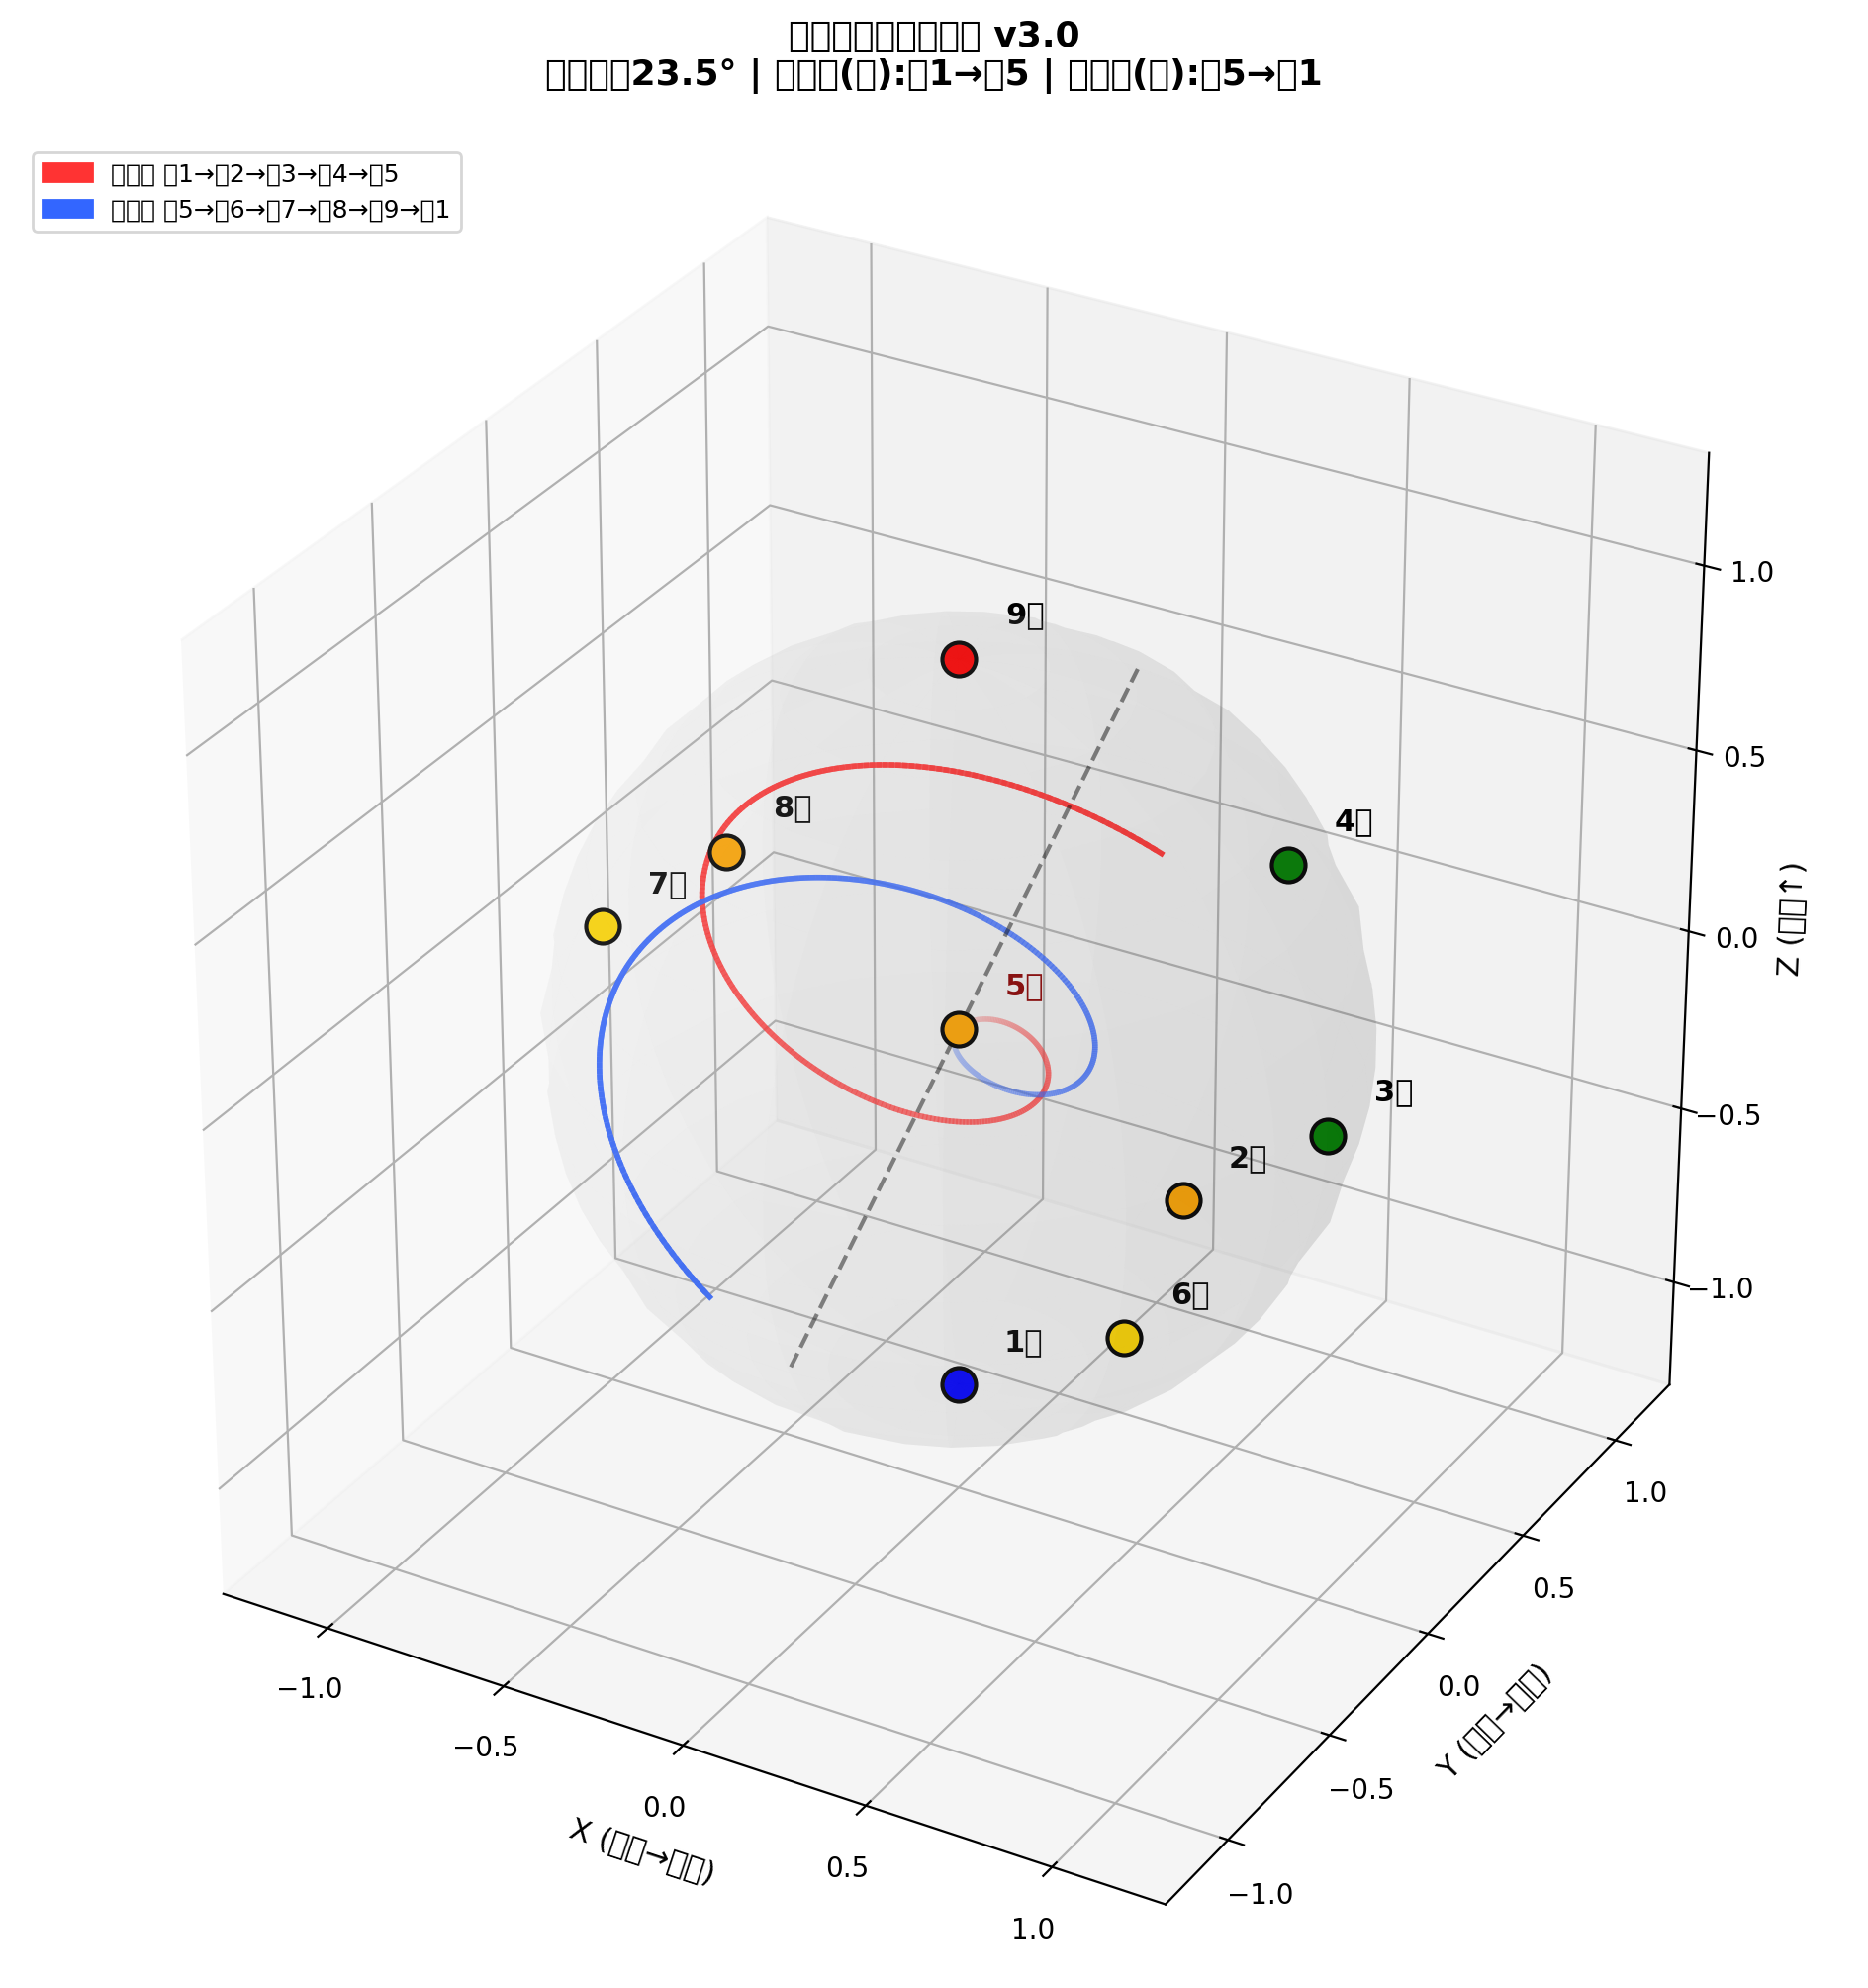
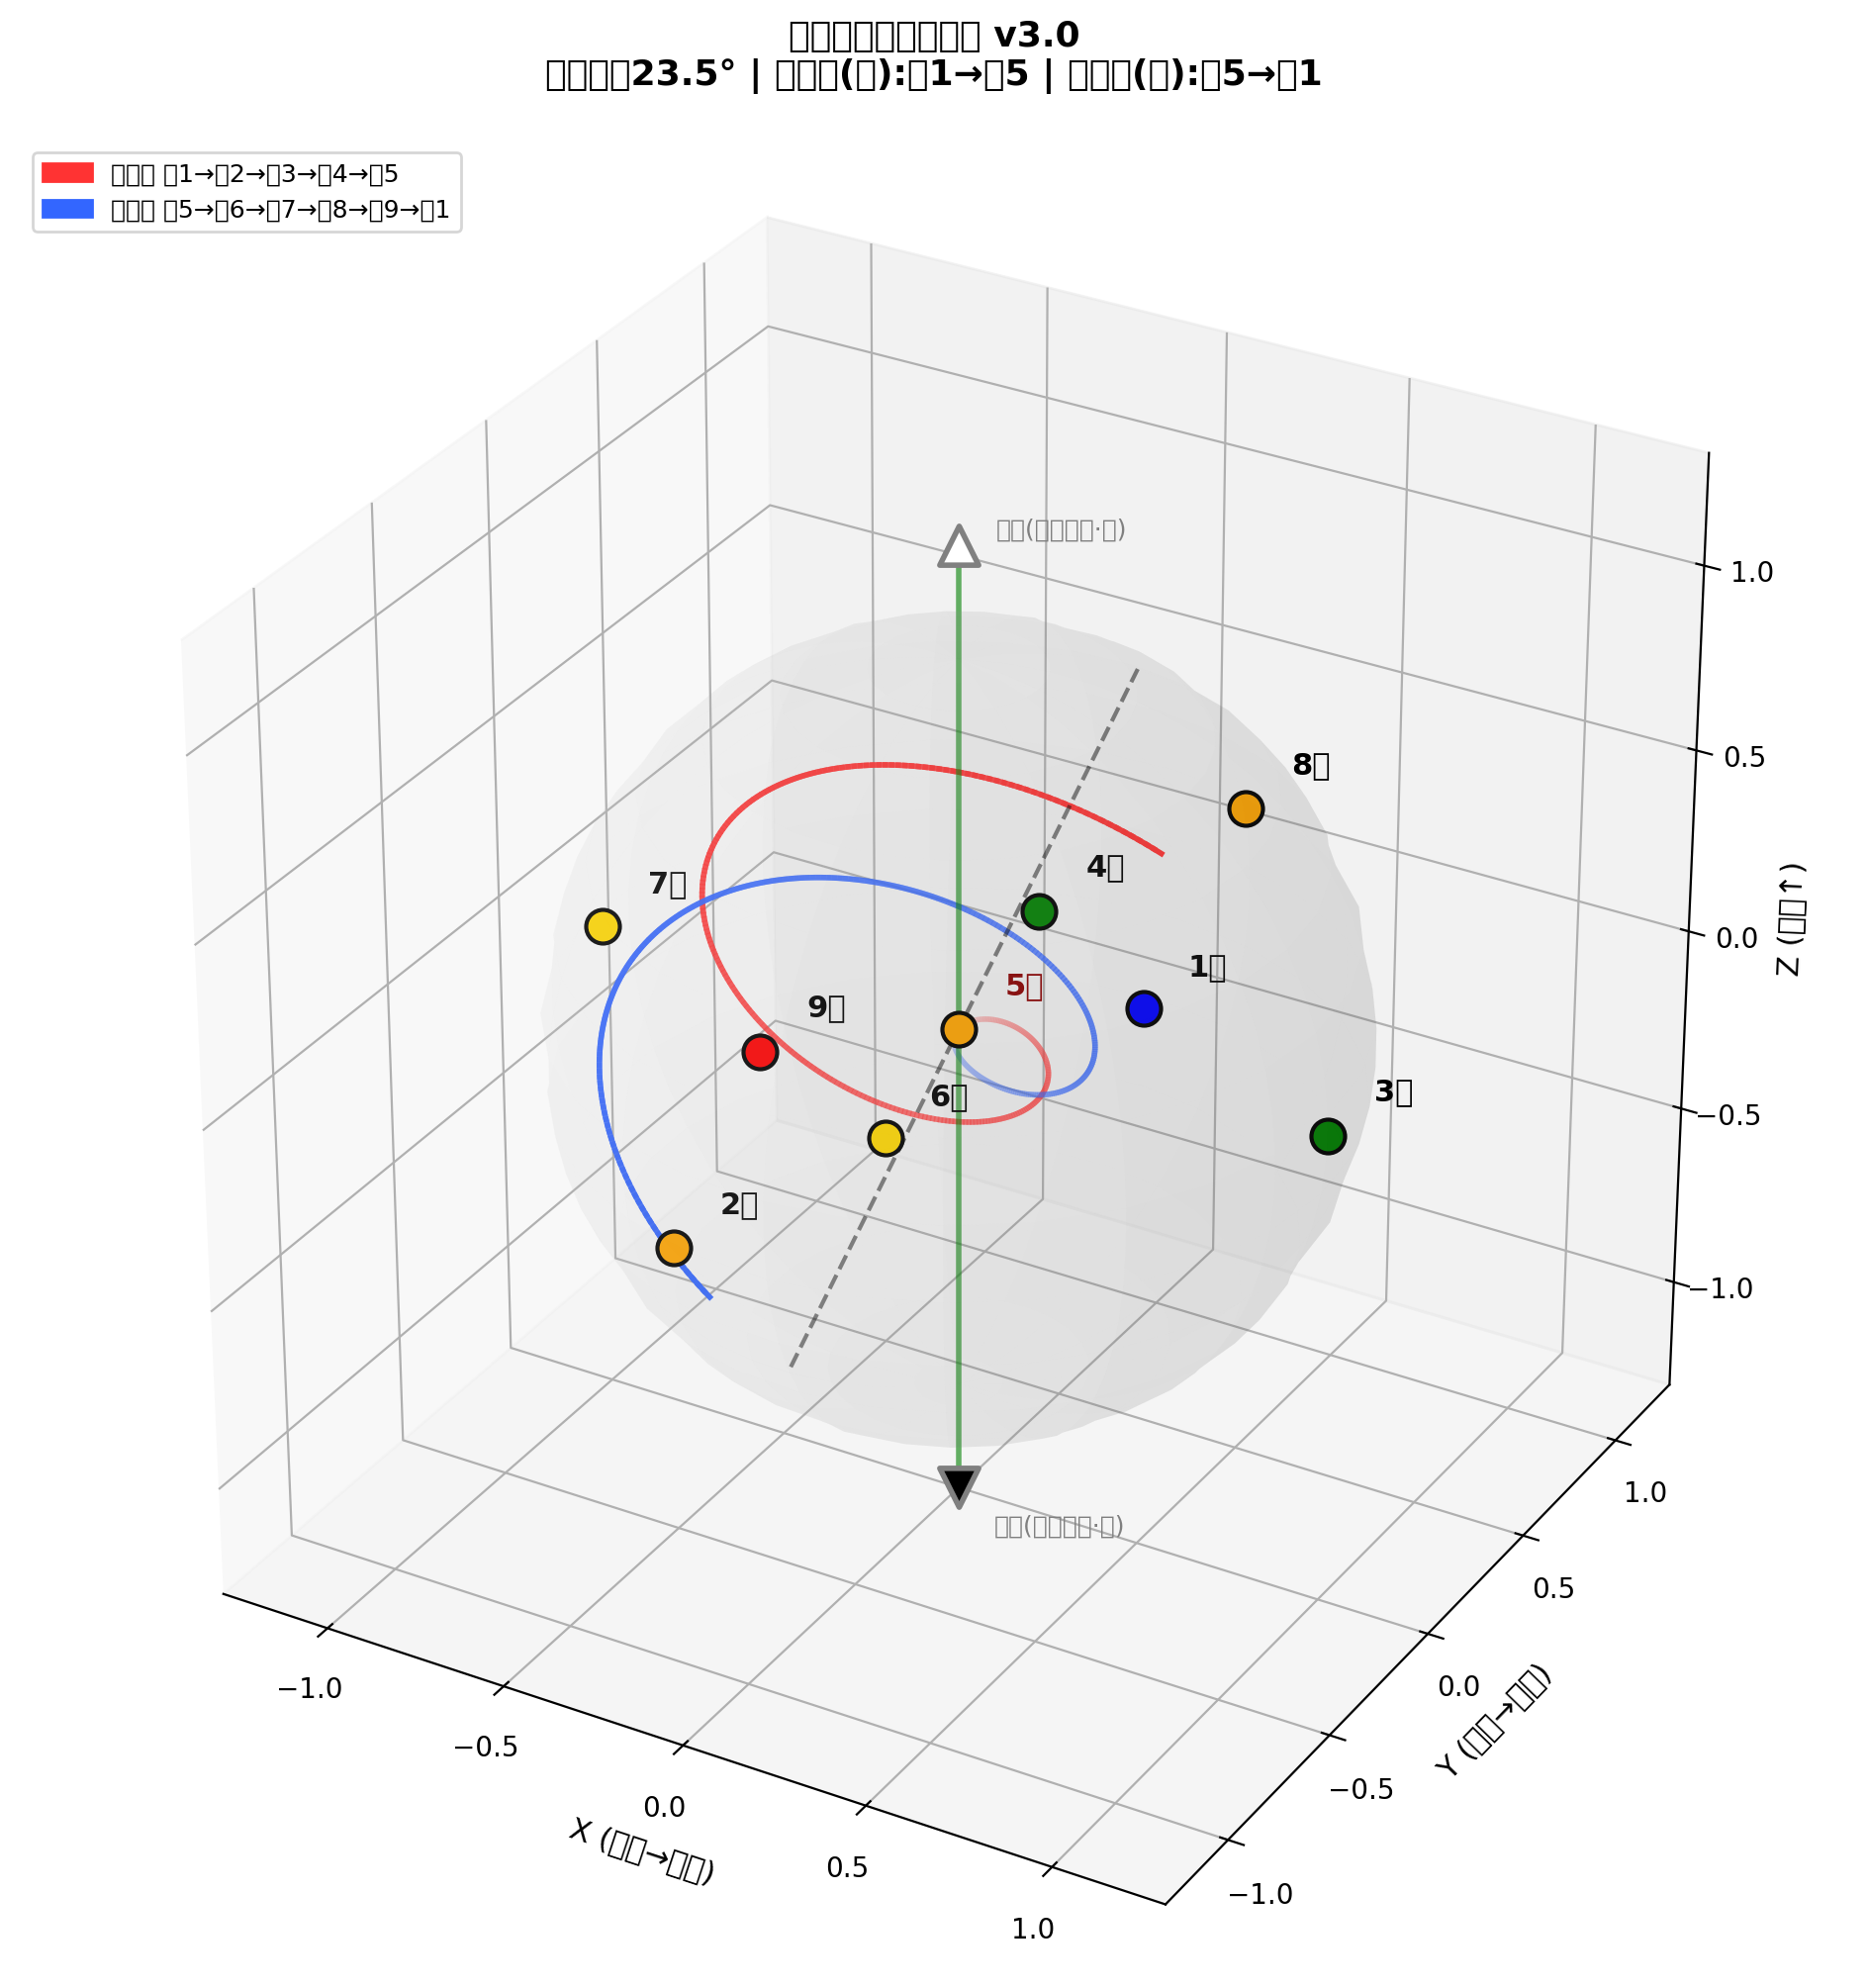
修正v3.0几何：地理轴与八卦中轴分离
核心修正（梓涵指出）：
1. 地理轴(南北极)=土轴/明度轴，不等于八卦中轴(巽4→乾6)
2. 离9(火/夏至)在北回归线(球面上)，不在北极
3. 坎1(水/冬至)在南回归线(球面上)，不在南极

修改文件：
- 后天八卦螺旋球体模型_v3.0.md：映射表/拓扑图/螺旋描述/代码架构
- v3.0_数学形式化.md：坐标系定义/九宫坐标/参数方程
- v3.0_3d_visualization.py：九宫位置/增加地理轴可视化

diff --git a/v3.0_3d_visualization.py b/v3.0_3d_visualization.py
@@ -30,17 +30,19 @@ class HoutianBaguaSpiralViz:
         # 构建正交基
         self._build_basis()
         
-        # 九宫定义（简化球坐标）
+        # 九宫定义（修正：地理轴Z=南北极=土轴，离9/坎1在回归线不在极点）
+        # 坐标系：X=东，Y=北，Z=北极（地理轴/土轴）
+        # 北极(0,0,1)=土之极阳（白），南极(0,0,-1)=土之极阴（黑）
         self.bagua = {
-            1: {"name": "坎", "wuxing": "水", "pos": self._spherical_to_cartesian(1.0, np.pi, 0)},
-            2: {"name": "坤", "wuxing": "土", "pos": self._spherical_to_cartesian(0.8, 3*np.pi/4, np.pi/4)},
-            3: {"name": "震", "wuxing": "木", "pos": self._spherical_to_cartesian(1.0, np.pi/2, 0)},
-            4: {"name": "巽", "wuxing": "木", "pos": self._spherical_to_cartesian(0.9, np.pi/3, np.pi/6)},
-            5: {"name": "中", "wuxing": "土", "pos": np.array([0.0, 0.0, 0.0])},
-            6: {"name": "乾", "wuxing": "金", "pos": self._spherical_to_cartesian(0.9, 2*np.pi/3, -np.pi/6)},
-            7: {"name": "兑", "wuxing": "金", "pos": self._spherical_to_cartesian(1.0, np.pi/2, np.pi)},
-            8: {"name": "艮", "wuxing": "土", "pos": self._spherical_to_cartesian(0.8, np.pi/4, -3*np.pi/4)},
-            9: {"name": "离", "wuxing": "火", "pos": self._spherical_to_cartesian(1.0, 0, 0)},
+            1: {"name": "坎", "wuxing": "水", "pos": np.array([0.0, 0.917, -0.399])},    # 南回归线（冬至·水）
+            2: {"name": "坤", "wuxing": "土", "pos": np.array([-0.5, -0.5, -0.5])},      # 西南偏下
+            3: {"name": "震", "wuxing": "木", "pos": np.array([1.0, 0.0, 0.0])},          # 赤道东（春分·木）
+            4: {"name": "巽", "wuxing": "木", "pos": np.array([0.5, -0.5, 0.707])},      # 八卦中轴上端
+            5: {"name": "中", "wuxing": "土", "pos": np.array([0.0, 0.0, 0.0])},          # 球心
+            6: {"name": "乾", "wuxing": "金", "pos": np.array([-0.5, 0.5, -0.707])},     # 八卦中轴下端
+            7: {"name": "兑", "wuxing": "金", "pos": np.array([-1.0, 0.0, 0.0])},         # 赤道西（秋分·金）
+            8: {"name": "艮", "wuxing": "土", "pos": np.array([0.5, 0.5, 0.5])},          # 东北偏上
+            9: {"name": "离", "wuxing": "火", "pos": np.array([0.0, -0.917, 0.399])},    # 北回归线（夏至·火）
         }
     
     def _build_basis(self):
@@ -138,13 +140,21 @@ class HoutianBaguaSpiralViz:
         ax.plot_surface(x_s, y_s, z_s, alpha=0.08, color='lightgray', 
                        rstride=2, cstride=2, linewidth=0)
         
-        # 绘制中轴
+        # 绘制八卦中轴（倾斜）
         axis_start = -1.2 * self.axis_dir
         axis_end = 1.2 * self.axis_dir
         ax.plot3D([axis_start[0], axis_end[0]], 
                  [axis_start[1], axis_end[1]], 
                  [axis_start[2], axis_end[2]], 
-                 'k--', linewidth=1.5, alpha=0.5, label='中轴(巽4→中5→乾6)')
+                 'k--', linewidth=1.5, alpha=0.5, label='八卦中轴(巽4→中5→乾6)')
+        
+        # 绘制地理轴（土轴/南北极，固定竖直Z轴）
+        ax.plot3D([0, 0], [0, 0], [-1.3, 1.3], 
+                 'g-', linewidth=2, alpha=0.6, label='地理轴(南极←土→北极)')
+        ax.scatter([0], [0], [1.3], c='white', s=200, marker='^', edgecolors='gray', linewidths=2, zorder=6)
+        ax.scatter([0], [0], [-1.3], c='black', s=200, marker='v', edgecolors='gray', linewidths=2, zorder=6)
+        ax.text(0.1, 0, 1.35, '北极(土之极阳·白)', fontsize=9, color='gray')
+        ax.text(0.1, 0, -1.4, '南极(土之极阴·黑)', fontsize=9, color='gray')
         
         # 标记九宫位置
         colors_wuxing = {

diff --git a/后天八卦螺旋球体模型_v3.0.md b/后天八卦螺旋球体模型_v3.0.md
@@ -47,38 +47,44 @@ v2.0建立了"土轴四行"的静态球面模型：
 
 | 数字 | 卦 | 方位 | 五行 | 季节 | 节气 | 三维球体定位 | 角色 |
 |------|-----|------|------|------|------|-------------|------|
-| 1 | 坎 | 北 | 水 | 冬 | 冬至 | **南极区域**（阴之极） | 阴螺旋起点 |
+| 1 | 坎 | 北 | 水 | 冬 | 冬至 | **南回归线**（阴之极·水） | 阴螺旋起点 |
 | 2 | 坤 | 西南 | 土 | 夏秋之交 | — | 南半球偏西（黄道过渡带） | 阴螺旋过渡 |
 | 3 | 震 | 东 | 木 | 春 | 春分 | **赤道东**（黄道主节点） | 阳螺旋主节点 |
-| 4 | 巽 | 东南 | 木/风 | 春夏之交 | — | 北半球偏东（中轴上端） | **中轴上端** |
+| 4 | 巽 | 东南 | 木/风 | 春夏之交 | — | **中轴上端**（八卦中轴与球面交点） | **八卦中轴上端** |
 | 5 | 中 | 中 | 土 | 四季 | — | **球心**（原点） | **螺旋交汇点** |
-| 6 | 乾 | 西北 | 金 | 秋冬之交 | — | 北半球偏西（中轴下端） | **中轴下端** |
+| 6 | 乾 | 西北 | 金 | 秋冬之交 | — | **中轴下端**（八卦中轴与球面交点） | **八卦中轴下端** |
 | 7 | 兑 | 西 | 金 | 秋 | 秋分 | **赤道西**（黄道主节点） | 阴螺旋主节点 |
-| 8 | 艮 | 东北 | 土 | 冬春之交 | — | 南半球偏东（黄道过渡带） | 阳螺旋过渡 |
-| 9 | 离 | 南 | 火 | 夏 | 夏至 | **北极区域**（阳之极） | 阳螺旋终点 |
+| 8 | 艮 | 东北 | 土 | 冬春之交 | — | 北半球偏东（黄道过渡带） | 阳螺旋过渡 |
+| 9 | 离 | 南 | 火 | 夏 | 夏至 | **北回归线**（阳之极·火） | 阴螺旋终点 |
 
 ### 2.2 关键拓扑关系
 
 ```
-三维球体上的后天八卦拓扑（侧视图，中轴倾斜）：
+三维球体上的后天八卦拓扑（侧视图）：
 
-                     离9（北极·阳之极·火）
+        北极（土之极阳·最白）←——地理轴（土轴/明度轴）——→ 南极（土之极阴·最黑）
                       ↑
                      ╱ ╲
-               巽4 ── 中5 ── 乾6   ← 倾斜中轴（巽4→中5→乾6）
+               巽4 ── 中5 ── 乾6   ← 八卦中轴（倾斜·巽4→中5→乾6）
               （上）  （心）  （下）
                      ╲ ╱
                       ↓
-                     坎1（南极·阴之极·水）
+        北回归线·离9（夏至·火）        南回归线·坎1（冬至·水）
 
-黄道面（垂直于纸面，与页面成23.5°夹角）：
+关键区分：
+- 地理轴（南北极）= 土轴/明度轴 = 固定竖直
+- 八卦中轴（4-5-6）= 倾斜轴 = 双螺旋交汇轴
+- 离9（火）在北回归线 = 球面上，不在北极！
+- 坎1（水）在南回归线 = 球面上，不在南极！
+
+黄道面（垂直于纸面）：
 - 震3（东·春分·木）—— 从纸面伸出
 - 兑7（西·秋分·金）—— 向纸面内陷入
-- 离9（南·夏至·火）—— 在纸面上方
-- 坎1（北·冬至·水）—— 在纸面下方
+- 离9（南·夏至·火）—— 在纸面上方（北回归线）
+- 坎1（北·冬至·水）—— 在纸面下方（南回归线）
 
-注意：巽4不在黄道面上，而在中轴上端（偏离黄道面）
-      乾6不在黄道面上，而在中轴下端（偏离黄道面）
+注意：巽4和乾6在八卦中轴上（偏离黄道面）
+      离9和坎1在黄道面上（北/南回归线）
 ```
 
 ### 2.3 中轴的定义
@@ -111,30 +117,30 @@ v2.0建立了"土轴四行"的静态球面模型：
 
 **阳螺旋（上升链）**：1 → 2 → 3 → 4 → 5
 ```
-坎1（南极/水/冬至）
+坎1（南回归线/水/冬至）—— 球面上，阴之极
   ↓ 沿球面螺旋上升
-坤2（西南/土/过渡）
+坤2（西南/土/过渡）—— 冬春之交的土平台
   ↓ 继续上升
-震3（赤道东/木/春分）
-  ↓ 向中轴靠拢
-巽4（中轴上端/木风）
+震3（赤道东/木/春分）—— 阳气开始主导
+  ↓ 向八卦中轴靠拢
+巽4（中轴上端/木风）—— 阳气到达中轴入口
   ↓ 汇聚到中心
-中5（球心/土）
+中5（球心/土）—— 阴阳交汇枢纽
 ```
 
 **阴螺旋（下降链）**：5 → 6 → 7 → 8 → 9 → 1
 ```
-中5（球心/土）
-  ↓ 从中发散
-乾6（中轴下端/金）
+中5（球心/土）—— 阴阳交汇枢纽
+  ↓ 从八卦中轴发散
+乾6（中轴下端/金）—— 阴气从中轴出口
   ↓ 向赤道下降
-兑7（赤道西/金/秋分）
+兑7（赤道西/金/秋分）—— 阴气开始主导
   ↓ 继续下降
-艮8（东北/土/过渡）
-  ↓ 到达极点
-离9（北极/火/夏至）
+艮8（东北/土/过渡）—— 夏秋之交的土平台
+  ↓ 到达火位
+离9（北回归线/火/夏至）—— 球面上，阳之极
   ↓ 完成循环
-坎1（南极/水/冬至）
+坎1（南回归线/水/冬至）—— 回到起点
 ```
 
 ### 3.2 双螺旋的几何形态
@@ -142,9 +148,9 @@ v2.0建立了"土轴四行"的静态球面模型：
 两条螺旋线在球体表面缠绕，在中5（球心）交汇：
 
 ```
-俯视图（沿中轴方向观察）：
+俯视图（沿八卦中轴方向观察）：
 
-              离9（北极）
+        北极（土之极阳·白）
                 ↑
                ╱ ╲
         巽4 ──   ── 乾6
@@ -156,7 +162,10 @@ v2.0建立了"土轴四行"的静态球面模型：
         坤2 ──   ── 艮8
                ╲ ╱
                 ↓
-              坎1（南极）
+        南极（土之极阴·黑）
+
+注意：离9（北回归线·火）和坎1（南回归线·水）不在此视图中心
+      它们位于黄道面上，在此投影中分布在震3-兑7轴的延长线上
 ```
 
 **关键发现**：
@@ -223,14 +232,14 @@ r(φ') = R·(φ'/(2π))             # 从球心(r=0)向球面(r=R)发散
 双螺旋不是静态的——它在**旋转**：
 
 - **阳螺旋旋转**：代表阳气从冬至(1)向夏至(9)增长
-  - 冬至时：阳螺旋在坎1（南极），最短/最弱
-  - 春分时：阳螺旋到达震3（赤道东），与阴螺旋等长
-  - 夏至时：阳螺旋到达离9（北极），最长/最强
+  - 冬至时：阳螺旋在坎1（南回归线/水），最短/最弱
+  - 春分时：阳螺旋到达震3（赤道东/木），与阴螺旋等长
+  - 夏至时：阳螺旋到达离9（北回归线/火），最长/最强
 
 - **阴螺旋旋转**：代表阴气从夏至(9)向冬至(1)增长
-  - 夏至时：阴螺旋在离9（北极），最短/最弱
-  - 秋分时：阴螺旋到达兑7（赤道西），与阳螺旋等长
-  - 冬至时：阴螺旋到达坎1（南极），最长/最强
+  - 夏至时：阴螺旋在离9（北回归线/火），最短/最弱
+  - 秋分时：阴螺旋到达兑7（赤道西/金），与阳螺旋等长
+  - 冬至时：阴螺旋到达坎1（南回归线/水），最长/最强
 
 ### 4.2 此涨彼消的数学表达
 
@@ -255,8 +264,8 @@ Y(阴) = cos(ωt)                 # 从冬至(t=0)开始衰减
 
 ### 4.3 极昼极夜的几何解释
 
-由于中轴倾斜：
-- **北半球夏至**（离9/火）：中轴北端倾向太阳，北半球极昼，南半球极夜
+由于八卦中轴（4-5-6）相对于地理轴（南北极）倾斜：
+- **北半球夏至**（离9/火在北回归线）：八卦中轴上端（巽4）倾向太阳，北半球极昼，南半球极夜
 - **南半球冬至**（坎1/水）：中轴南端背离太阳，南半球极夜，北半球极昼
 - **春秋分**（震3/兑7）：中轴垂直于日地连线，全球昼夜平分
 
@@ -268,13 +277,14 @@ Y(阴) = cos(ωt)                 # 从冬至(t=0)开始衰减
 
 与v2.0一致，v3.0的南北极端也是不对称的：
 
-| | 北极端（离9/夏至/火） | 南极端（坎1/冬至/水） |
+| | 北回归线（离9/夏至/火） | 南回归线（坎1/冬至/水） |
 |---|---|---|
 | 螺旋状态 | 阳螺旋最长，阴螺旋最短 | 阴螺旋最长，阳螺旋最短 |
 | 生克关系 | 火克金（离9克乾6） | 水生木（坎1生震3） |
-| 土的角色 | 土生金（中5→乾6） | 木克土（震3克中5） |
+| 土的角色 | 火生土（离9→中5） | 水克土（坎1→中5） |
 | 极昼极夜 | 北半球极昼 | 南半球极夜 |
 | 阴阳属性 | 阳之极，主动 | 阴之极，被动 |
+| 地理轴位置 | 距北极（土之极阳）有一定距离 | 距南极（土之极阴）有一定距离 |
 
 ---
 
@@ -480,17 +490,19 @@ class HoutianBaguaSpiralSphere:
         # 中轴参数（倾斜角）
         self.axis_tilt = 23.5  # 度，对应黄赤交角
         
-        # 九宫位置（球坐标）
+        # 九宫位置（直角坐标，Z轴=地理轴/南北极/土轴）
+        # 北极(0,0,1)=土之极阳(白)，南极(0,0,-1)=土之极阴(黑)
+        # 离9和坎1在北/南回归线，不在南北极！
         self.positions = {
-            1: {"name": "坎", "wuxing": "水", "pos": (0, 0, -1)},      # 南极
-            2: {"name": "坤", "wuxing": "土", "pos": (-0.5, 0.5, -0.5)}, # 西南偏下
-            3: {"name": "震", "wuxing": "木", "pos": (-1, 0, 0)},        # 赤道东
-            4: {"name": "巽", "wuxing": "木", "pos": (-0.7, 0.7, 0.2)},  # 中轴上端
-            5: {"name": "中", "wuxing": "土", "pos": (0, 0, 0)},         # 球心
-            6: {"name": "乾", "wuxing": "金", "pos": (0.7, -0.7, -0.2)}, # 中轴下端
-            7: {"name": "兑", "wuxing": "金", "pos": (1, 0, 0)},         # 赤道西
-            8: {"name": "艮", "wuxing": "土", "pos": (0.5, -0.5, 0.5)},  # 东北偏上
-            9: {"name": "离", "wuxing": "火", "pos": (0, 0, 1)},         # 北极
+            1: {"name": "坎", "wuxing": "水", "pos": (0, -0.917, -0.399)},  # 南回归线（冬至·水）
+            2: {"name": "坤", "wuxing": "土", "pos": (-0.5, -0.5, -0.5)},   # 西南偏下
+            3: {"name": "震", "wuxing": "木", "pos": (1, 0, 0)},            # 赤道东（春分·木）
+            4: {"name": "巽", "wuxing": "木", "pos": (-0.5, 0.5, 0.7)},     # 八卦中轴上端
+            5: {"name": "中", "wuxing": "土", "pos": (0, 0, 0)},             # 球心
+            6: {"name": "乾", "wuxing": "金", "pos": (0.5, -0.5, -0.7)},    # 八卦中轴下端
+            7: {"name": "兑", "wuxing": "金", "pos": (-1, 0, 0)},           # 赤道西（秋分·金）
+            8: {"name": "艮", "wuxing": "土", "pos": (0.5, 0.5, 0.5)},      # 东北偏上
+            9: {"name": "离", "wuxing": "火", "pos": (0, 0.917, 0.399)},    # 北回归线（夏至·火）
         }
         
         # 螺旋参数

diff --git a/v3.0_数学形式化.md b/v3.0_数学形式化.md
@@ -8,48 +8,76 @@
 
 ## 一、坐标系定义
 
-### 1.1 标准直角坐标系
+### 1.1 双轴坐标系（核心修正）
+
+v3.0存在**两条独立的轴**，必须严格区分：
+
+**地理轴（土轴/明度轴）**：
+- Z轴 = 地理轴，北极(0,0,1)=土之极阳（最白），南极(0,0,-1)=土之极阴（最黑）
+- 这是v2.0已建立的明度变化轴，固定竖直
+- 对应地球自转轴
+
+**八卦中轴（螺旋交汇轴）**：
+- 巽4 → 中5 → 乾6，一条倾斜穿过球心的轴
+- 与地理轴有固定夹角（约45°简化模型，对应黄赤交角23.5°需校准）
+- 双螺旋围绕此轴缠绕
+
+### 1.2 标准直角坐标系
 
 以球心O为原点，建立右手直角坐标系：
 - **X轴**: 指向春分点（震3/东方）
-- **Y轴**: 指向夏至点（离9/南方）
-- **Z轴**: 指向北极（垂直于黄道面向上）
+- **Y轴**: 指向北方（坎1/北方经度方向）
+- **Z轴**: 指向北极（地理轴，土之极阳）
 
-### 1.2 中轴（巽4→中5→乾6）的精确方向
+> 注：Y轴指向北方（非南方），确保Z轴（北极）符合右手定则：X(东) × Y(北) = Z(上)
 
-根据后天八卦方位和v3.0拓扑：
+### 1.3 九宫位置坐标（修正后）
 
-| 点 | 方位 | 球坐标(θ, φ) | 直角坐标(x, y, z) |
-|----|------|--------------|-------------------|
-| 巽4 | 东南偏上 | θ=45°, φ=45° | (√2/2·sin45°, √2/2·sin45°, cos45°) ≈ (0.5, 0.5, 0.707) |
-| 中5 | 球心 | — | (0, 0, 0) |
-| 乾6 | 西北偏下 | θ=135°, φ=45° | (-0.5, -0.5, -0.707) |
+| 数字 | 卦 | 五行 | 节气 | 纬度 | 经度方向 | 直角坐标(x, y, z) |
+|------|-----|------|------|------|----------|-------------------|
+| 1 | 坎 | 水 | 冬至 | -23.5°（南回归线） | 北 | (0, 0.917, -0.399) |
+| 2 | 坤 | 土 | — | -30°（近似） | 西南 | (-0.5, -0.5, -0.5) |
+| 3 | 震 | 木 | 春分 | 0°（赤道） | 东 | (1, 0, 0) |
+| 4 | 巽 | 木 | — | +45°（近似） | 东南 | (0.5, -0.5, 0.707) |
+| 5 | 中 | 土 | — | — | — | (0, 0, 0) |
+| 6 | 乾 | 金 | — | -45°（近似） | 西北 | (-0.5, 0.5, -0.707) |
+| 7 | 兑 | 金 | 秋分 | 0°（赤道） | 西 | (-1, 0, 0) |
+| 8 | 艮 | 土 | — | +30°（近似） | 东北 | (0.5, 0.5, 0.5) |
+| 9 | 离 | 火 | 夏至 | +23.5°（北回归线） | 南 | (0, -0.917, 0.399) |
 
-**中轴方向向量**: **d** = 乾6 - 巽4 = (-1, -1, -1.414)
+**关键修正**：
+- 离9在**北回归线**（纬度+23.5°），**不在北极**！
+- 坎1在**南回归线**（纬度-23.5°），**不在南极**！
+- 北极(0,0,1) = 土之极阳（白），南极(0,0,-1) = 土之极阴（黑）
+- 巽4和乾6在八卦中轴上，不在黄道面上
+
+### 1.4 八卦中轴（巽4→中5→乾6）的精确方向
+
+**中轴方向向量**: **d** = 乾6 - 巽4 = (-1, 1, -1.414)
 
 归一化：
 ```
-d̂ = (-1, -1, -1.414) / √(1 + 1 + 2) = (-1, -1, -1.414) / 2 = (-0.5, -0.5, -0.707)
+d̂ = (-1, 1, -1.414) / √(1 + 1 + 2) = (-0.5, 0.5, -0.707)
 ```
 
 **中轴倾斜角**: α = arccos(|d̂ · ẑ|) = arccos(0.707) ≈ **45°**
 
-> 注：此处45°是简化模型。真实黄赤交角为23.5°，后续可校准。
+> 注：45°是简化模型。真实黄赤交角为23.5°，后续可校准为α=23.5°。
 
-### 1.3 球坐标系（以中轴为极轴）
+### 1.5 球坐标系（以八卦中轴为极轴）
 
-建立以中轴为Z'轴的球坐标系 (r, θ', φ')：
+建立以八卦中轴为Z'轴的球坐标系 (r, θ', φ')：
 - r ∈ [0, R]: 到球心距离（R=1为单位球）
-- θ' ∈ [0, π]: 与中轴的夹角（极角）
-- φ' ∈ [0, 2π): 绕中轴的方位角（方位角）
+- θ' ∈ [0, π]: 与八卦中轴的夹角（极角）
+- φ' ∈ [0, 2π): 绕八卦中轴的方位角（方位角）
 
-坐标变换矩阵：
+坐标变换矩阵（简化版）：
 ```
-将标准坐标(x,y,z)转换到中轴坐标系(x',y',z')：
+将标准坐标(x,y,z)转换到八卦中轴坐标系(x',y',z')：
 
-z' = x·(-0.5) + y·(-0.5) + z·(-0.707)   # 沿中轴投影
-x' = x·(0.707) + y·(-0.707)             # 垂直于中轴平面（简化）
-y' = ...                                  # 需完整构造正交基
+z' = x·(-0.5) + y·(0.5) + z·(-0.707)   # 沿八卦中轴投影
+x' = x·(0.707) + y·(0.707)              # 垂直于八卦中轴平面
+y' = x·(0.5) + y·(-0.5) + z·(0)         # 完整正交基需格拉姆-施密特正交化
 ```
 
 ---
@@ -85,11 +113,11 @@ def yang_spiral(t, n=1.0, k=0.5):
 ```
 
 **关键点验证**：
-- t=0 (坎1): r=1, θ'=90°, φ'=0° → 球面上，位于中轴赤道平面
-- t=0.25 (坤2): r=0.75, θ'=82.5°, φ'=90° → 向中轴靠拢
-- t=0.5 (震3): r=0.5, θ'=75°, φ'=180° → 中轴坐标系赤道对面
-- t=0.75 (巽4): r=0.25, θ'=67.5°, φ'=270° → 靠近中轴
-- t=1 (中5): r=0, θ'=45°, φ'=360° → 球心（所有角度汇聚）
+- t=0 (坎1): r=1, 位于球面上（南回归线），θ' ≈ 与八卦中轴的夹角 ≈ 120°
+- t=0.25 (坤2): r=0.75, θ' ≈ 100°, φ'=90° → 向八卦中轴靠拢
+- t=0.5 (震3): r=0.5, θ' ≈ 80°, φ'=180° → 靠近八卦中轴赤道面
+- t=0.75 (巽4): r=0.25, θ' ≈ 45°, φ'=270° → 接近八卦中轴
+- t=1 (中5): r=0, θ'=0°, φ'=360° → 球心（八卦中轴中心）
 
 ### 2.2 阴螺旋（下降链）
 
@@ -119,11 +147,11 @@ def yin_spiral(t, n=1.0, k=0.5):
 
 **关键点验证**：
 - t=0 (中5): r=0 → 球心
-- t=0.2 (乾6): r=0.2, φ'=36°+180°=216° → 中轴下端附近
-- t=0.4 (兑7): r=0.4, φ'=72°+180°=252° → 向赤道下降
-- t=0.6 (艮8): r=0.6, φ'=108°+180°=288° → 继续下降
-- t=0.8 (离9): r=0.8, φ'=144°+180°=324° → 靠近北极
-- t=1 (坎1): r=1, φ'=180°+180°=360°=0° → 回到坎1，与阳螺旋闭合
+- t=0.2 (乾6): r=0.2, θ'≈45°, φ'=216° → 八卦中轴下端附近
+- t=0.4 (兑7): r=0.4, θ'≈80°, φ'=252° → 向赤道面发散
+- t=0.6 (艮8): r=0.6, θ'≈100°, φ'=288° → 继续远离八卦中轴
+- t=0.8 (离9): r=0.8, θ'≈120°, φ'=324° → 靠近球面（北回归线）
+- t=1 (坎1): r=1, θ'≈120°, φ'=360°=0° → 回到坎1（南回归线），与阳螺旋闭合
 
 ### 2.3 双螺旋的∞形状证明
 